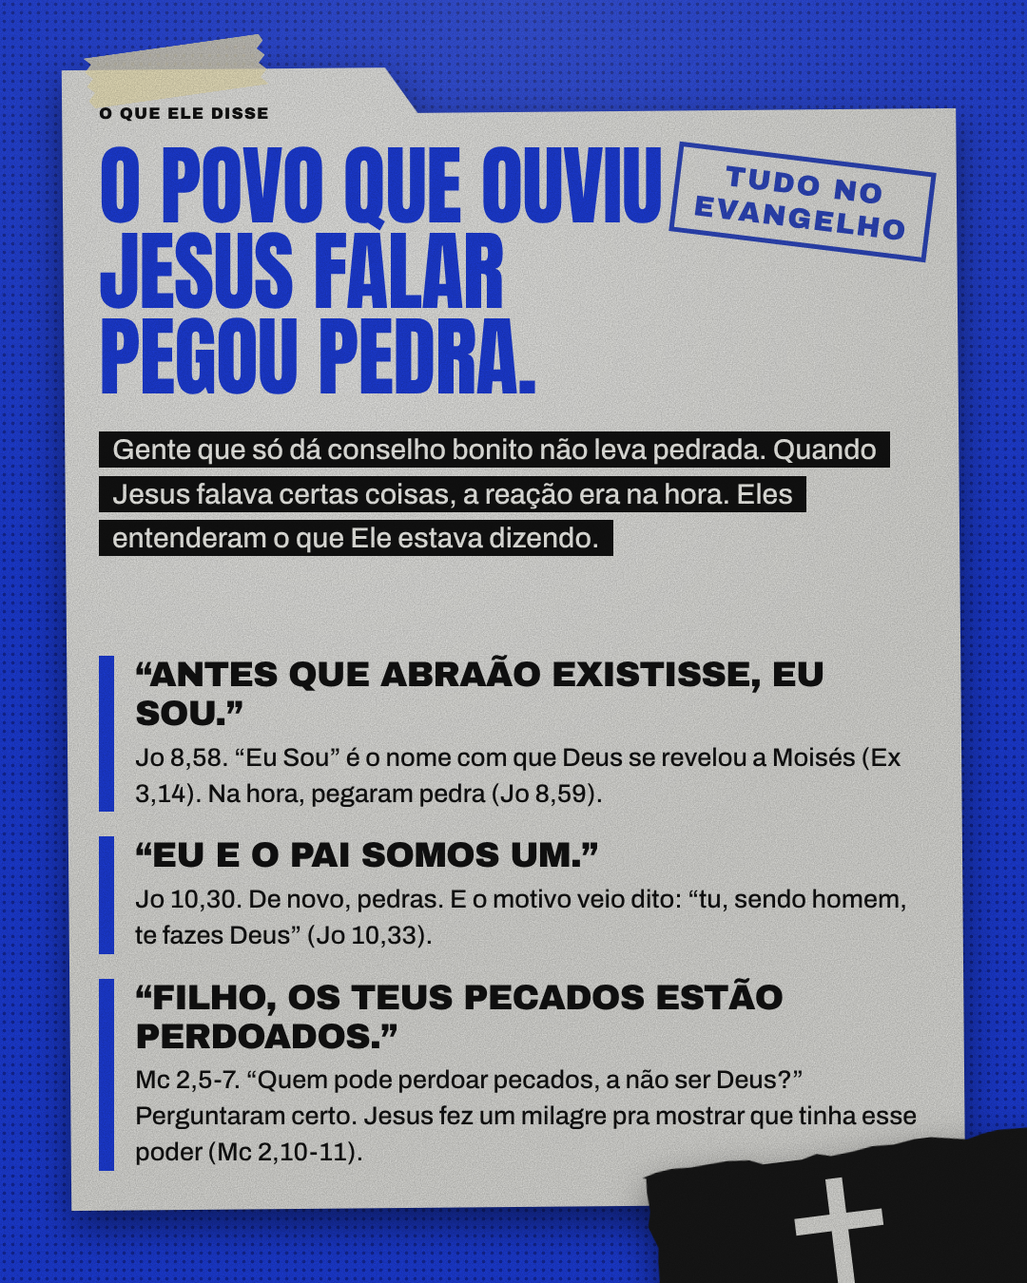
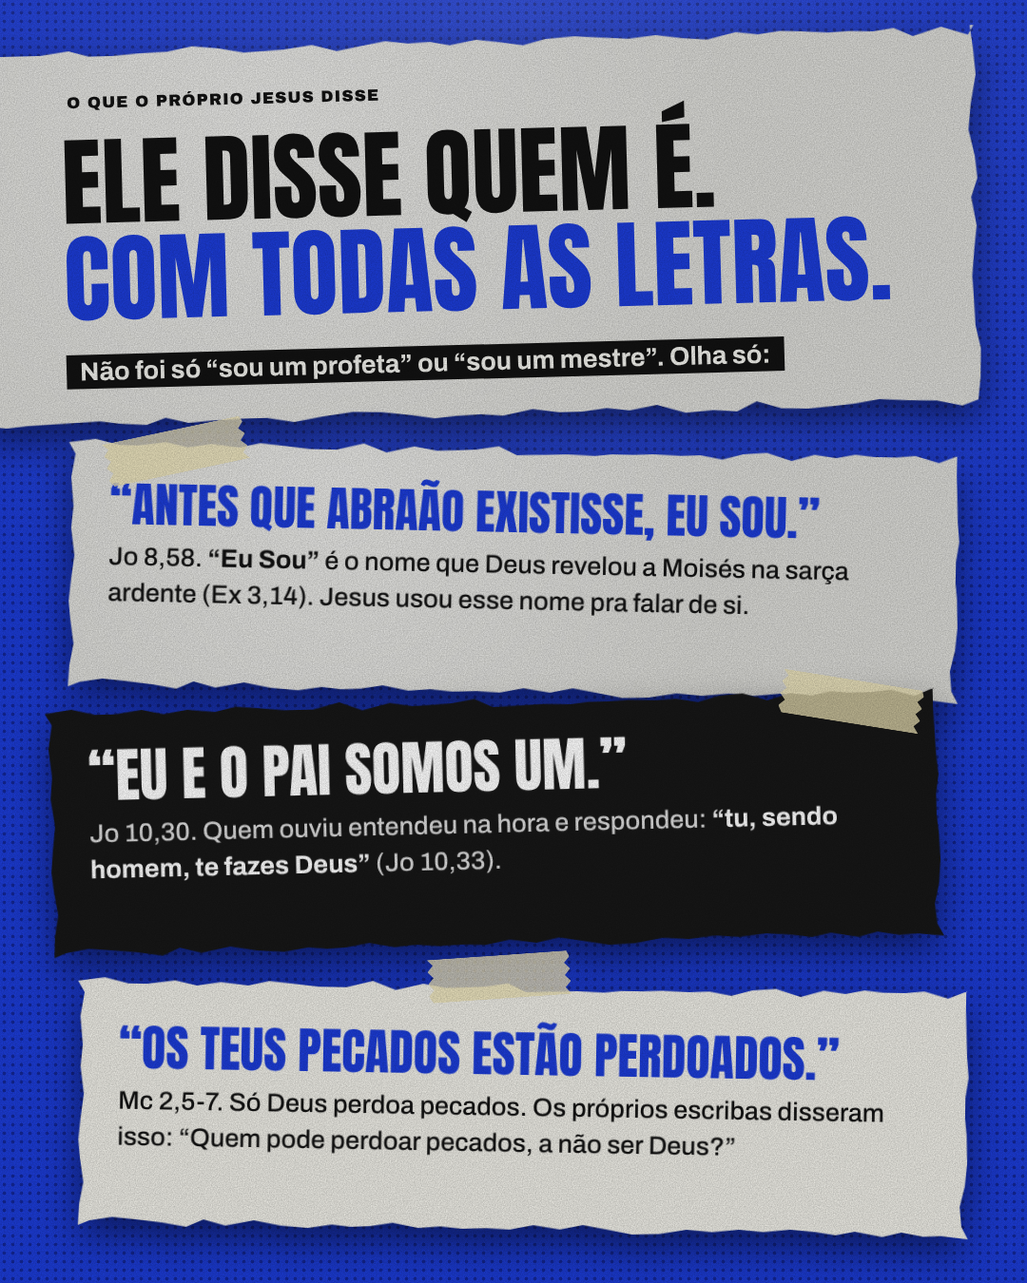
Rework post 02 slide 2 for clarity and simplify slides 3-4 copy
Claude-Session: https://claude.ai/code/session_01MihRDu9S7C7FuK2X9gVU2q

diff --git a/instagram-jesus/post-02/slides.html b/instagram-jesus/post-02/slides.html
@@ -42,26 +42,25 @@
 
 <!-- ============ SLIDE 2 ============ -->
 <div class="s" id="s2">
- <div class="wrap" style="left:70px;top:70px;width:940px;height:1200px;transform:rotate(-.5deg)"><div class="paper" style="clip-path:polygon(0 0,340px 0,374px 48px,940px 48px,940px 1200px,0 1200px)"></div></div>
- <div class="abs lab" style="left:104px;top:110px;font-size:17px">O QUE ELE DISSE</div>
- <div class="abs cond" style="left:104px;top:150px;width:640px;font-size:92px;color:var(--blue);line-height:.98;letter-spacing:-1px">O POVO QUE OUVIU JESUS FALAR PEGOU PEDRA.</div>
- <div class="abs" style="left:104px;right:150px;top:450px;font-size:30px;line-height:1.55;font-weight:500"><span class="hl">Gente que só dá conselho bonito não leva pedrada. Quando Jesus falava certas coisas, a reação era na hora. Eles entenderam o que Ele estava dizendo.</span></div>
+ <div class="wrap" style="left:-30px;top:40px;width:1060px;height:400px;transform:rotate(-1.5deg)"><div class="paper" style="clip-path:polygon(0px 2px,31px 7px,52px 7px,77px 7px,107px 3px,128px 9px,153px 9px,181px 7px,211px 6px,237px 1px,265px 4px,291px 9px,313px 8px,333px 7px,363px 3px,389px 10px,417px 5px,440px 1px,464px 4px,487px 3px,508px 7px,536px 2px,559px 5px,585px 9px,609px 3px,639px 1px,666px 3px,696px 5px,725px 2px,753px 6px,779px 8px,809px 1px,832px 4px,855px 1px,878px 2px,906px 4px,928px 3px,953px 4px,975px 1px,995px 10px,1025px 1px,1053px 10px,1059px 0px,1055px 0px,1058px 25px,1060px 52px,1054px 83px,1051px 110px,1057px 138px,1059px 161px,1052px 181px,1057px 211px,1054px 234px,1051px 264px,1052px 286px,1053px 316px,1058px 340px,1057px 370px,1054px 394px,1060px 392px,1037px 400px,1010px 394px,980px 393px,950px 391px,924px 395px,902px 397px,875px 399px,847px 398px,821px 390px,800px 400px,775px 398px,746px 400px,716px 391px,687px 396px,663px 393px,637px 396px,613px 396px,585px 392px,554px 398px,531px 396px,504px 397px,482px 399px,458px 395px,426px 391px,396px 390px,364px 394px,334px 399px,306px 394px,283px 394px,251px 395px,223px 397px,199px 391px,179px 398px,151px 396px,130px 393px,105px 394px,80px 395px,54px 396px,32px 398px,2px 395px,9px 400px,1px 377px,3px 351px,6px 325px,6px 302px,5px 281px,1px 254px,1px 229px,9px 203px,7px 177px,1px 148px,7px 116px,8px 95px,2px 70px,6px 38px,1px 9px)"></div></div>
+ <div class="abs lab" style="left:70px;top:95px;font-size:17px;transform:rotate(-1.5deg)">O QUE O PRÓPRIO JESUS DISSE</div>
+ <div class="abs cond" style="left:66px;top:130px;font-size:102px;line-height:1.0;white-space:nowrap;transform:rotate(-1.5deg)">ELE DISSE QUEM É.<br><span style="color:var(--blue)">COM TODAS AS LETRAS.</span></div>
+ <div class="abs" style="left:70px;top:362px;font-size:27px;font-weight:700;transform:rotate(-1.5deg)"><span class="hl">Não foi só “sou um profeta” ou “sou um mestre”. Olha só:</span></div>
 
- <div class="abs" style="left:104px;right:104px;top:690px">
-  <div style="display:flex;gap:22px;margin-bottom:26px"><div style="width:16px;background:var(--blue);flex:none"></div><div>
-   <div class="q" style="font-size:37px">“Antes que Abraão existisse, EU SOU.”</div>
-   <div style="font-size:27px;line-height:1.4;margin-top:6px;font-weight:500">Jo 8,58. “Eu Sou” é o nome com que Deus se revelou a Moisés (Ex 3,14). Na hora, pegaram pedra (Jo 8,59).</div></div></div>
-  <div style="display:flex;gap:22px;margin-bottom:26px"><div style="width:16px;background:var(--blue);flex:none"></div><div>
-   <div class="q" style="font-size:37px">“Eu e o Pai somos um.”</div>
-   <div style="font-size:27px;line-height:1.4;margin-top:6px;font-weight:500">Jo 10,30. De novo, pedras. E o motivo veio dito: “tu, sendo homem, te fazes Deus” (Jo 10,33).</div></div></div>
-  <div style="display:flex;gap:22px"><div style="width:16px;background:var(--blue);flex:none"></div><div>
-   <div class="q" style="font-size:37px">“Filho, os teus pecados estão perdoados.”</div>
-   <div style="font-size:27px;line-height:1.4;margin-top:6px;font-weight:500">Mc 2,5-7. “Quem pode perdoar pecados, a não ser Deus?” Perguntaram certo. Jesus fez um milagre pra mostrar que tinha esse poder (Mc 2,10-11).</div></div></div>
- </div>
- <div class="wrap" style="left:690px;top:1205px;width:440px;height:280px;transform:rotate(-7deg)"><div class="dark" style="width:100%;height:100%;clip-path:polygon(0px 7px,15px 3px,32px 1px,52px 2px,69px 1px,91px 0px,114px 2px,128px 8px,145px 8px,169px 8px,185px 4px,200px 8px,224px 6px,244px 3px,267px 4px,289px 1px,306px 1px,328px 5px,344px 8px,361px 4px,377px 2px,401px 3px,417px 4px,435px 8px,450px 9px,452px 0px,454px 0px,456px 17px,458px 34px,457px 50px,451px 76px,459px 101px,452px 119px,453px 134px,451px 151px,453px 165px,459px 183px,453px 197px,458px 218px,452px 237px,455px 254px,458px 269px,460px 274px,444px 279px,429px 275px,409px 278px,392px 274px,370px 273px,349px 278px,334px 273px,315px 274px,300px 273px,282px 272px,258px 276px,244px 272px,224px 272px,207px 278px,183px 277px,167px 277px,146px 280px,126px 276px,105px 279px,83px 273px,58px 277px,36px 277px,13px 279px,9px 280px,5px 260px,5px 240px,9px 225px,2px 209px,2px 194px,0px 170px,6px 155px,0px 138px,5px 117px,6px 97px,8px 82px,0px 59px,4px 43px,3px 23px,4px 8px)"></div></div>
- <div class="abs" style="left:830px;top:1235px;transform:rotate(-7deg)"><svg viewBox="0 0 100 130" width="110" height="143"><path d="M42 4h16v34h34v16H58v72H42V54H8V38h34z" fill="#d9d9d5"/></svg></div>
- <div class="tape" style="left:90px;top:48px;width:190px;height:54px;transform:rotate(-8deg)"></div>
- <div class="stamp" style="right:100px;top:165px;font-size:30px;line-height:1.15;text-align:center;transform:rotate(7deg)">Tudo no<br>Evangelho</div>
+ <div class="wrap" style="left:70px;top:470px;width:940px;height:262px;transform:rotate(1.2deg)"><div class="paper" style="clip-path:polygon(0px 5px,28px 1px,53px 7px,73px 7px,102px 3px,125px 8px,150px 4px,179px 7px,201px 2px,223px 4px,253px 7px,282px 7px,310px 0px,334px 9px,363px 2px,387px 6px,409px 5px,428px 4px,452px 0px,471px 9px,499px 8px,524px 7px,553px 8px,571px 6px,593px 6px,614px 5px,643px 6px,664px 5px,687px 9px,709px 3px,734px 1px,760px 9px,784px 2px,807px 5px,827px 1px,847px 3px,870px 3px,890px 1px,915px 8px,935px 0px,934px 0px,934px 20px,935px 44px,936px 69px,938px 91px,935px 112px,935px 134px,937px 152px,938px 181px,936px 205px,931px 227px,933px 248px,940px 261px,912px 258px,893px 259px,870px 255px,850px 260px,821px 255px,801px 259px,779px 256px,753px 254px,725px 257px,699px 255px,671px 258px,644px 256px,615px 261px,587px 262px,559px 257px,535px 253px,511px 258px,483px 254px,458px 259px,434px 258px,408px 259px,385px 257px,362px 259px,335px 254px,311px 258px,291px 259px,271px 257px,246px 261px,217px 259px,189px 254px,159px 260px,136px 254px,118px 262px,93px 258px,64px 255px,40px 253px,16px 257px,4px 262px,5px 240px,9px 217px,5px 191px,3px 172px,5px 149px,8px 124px,4px 95px,6px 72px,3px 42px,7px 17px);padding:44px 44px">
+   <div class="cond" style="font-size:50px;color:var(--blue);white-space:nowrap">“ANTES QUE ABRAÃO EXISTISSE, EU SOU.”</div>
+   <div style="font-size:27px;line-height:1.4;margin-top:12px;font-weight:500">Jo 8,58. <b>“Eu Sou”</b> é o nome que Deus revelou a Moisés na sarça ardente (Ex 3,14). Jesus usou esse nome pra falar de si.</div></div></div>
+ <div class="tape" style="left:110px;top:452px;width:150px;height:46px;transform:rotate(-12deg)"></div>
+
+ <div class="wrap" style="left:50px;top:735px;width:940px;height:262px;transform:rotate(-1.4deg)"><div class="dark" style="width:100%;height:100%;clip-path:polygon(0px 5px,28px 1px,53px 7px,73px 7px,102px 3px,125px 8px,150px 4px,179px 7px,201px 2px,223px 4px,253px 7px,282px 7px,310px 0px,334px 9px,363px 2px,387px 6px,409px 5px,428px 4px,452px 0px,471px 9px,499px 8px,524px 7px,553px 8px,571px 6px,593px 6px,614px 5px,643px 6px,664px 5px,687px 9px,709px 3px,734px 1px,760px 9px,784px 2px,807px 5px,827px 1px,847px 3px,870px 3px,890px 1px,915px 8px,935px 0px,934px 0px,934px 20px,935px 44px,936px 69px,938px 91px,935px 112px,935px 134px,937px 152px,938px 181px,936px 205px,931px 227px,933px 248px,940px 261px,912px 258px,893px 259px,870px 255px,850px 260px,821px 255px,801px 259px,779px 256px,753px 254px,725px 257px,699px 255px,671px 258px,644px 256px,615px 261px,587px 262px,559px 257px,535px 253px,511px 258px,483px 254px,458px 259px,434px 258px,408px 259px,385px 257px,362px 259px,335px 254px,311px 258px,291px 259px,271px 257px,246px 261px,217px 259px,189px 254px,159px 260px,136px 254px,118px 262px,93px 258px,64px 255px,40px 253px,16px 257px,4px 262px,5px 240px,9px 217px,5px 191px,3px 172px,5px 149px,8px 124px,4px 95px,6px 72px,3px 42px,7px 17px);padding:40px 44px">
+   <div class="cond" style="font-size:62px;color:#fff">“EU E O PAI SOMOS UM.”</div>
+   <div style="font-size:27px;line-height:1.4;margin-top:12px;font-weight:500;color:#ddd">Jo 10,30. Quem ouviu entendeu na hora e respondeu: <b style="color:#fff">“tu, sendo homem, te fazes Deus”</b> (Jo 10,33).</div></div></div>
+ <div class="tape" style="left:820px;top:715px;width:150px;height:46px;transform:rotate(9deg)"></div>
+
+ <div class="wrap" style="left:80px;top:1035px;width:940px;height:262px;transform:rotate(1deg)"><div style="width:100%;height:100%;background:var(--cream);clip-path:polygon(0px 5px,28px 1px,53px 7px,73px 7px,102px 3px,125px 8px,150px 4px,179px 7px,201px 2px,223px 4px,253px 7px,282px 7px,310px 0px,334px 9px,363px 2px,387px 6px,409px 5px,428px 4px,452px 0px,471px 9px,499px 8px,524px 7px,553px 8px,571px 6px,593px 6px,614px 5px,643px 6px,664px 5px,687px 9px,709px 3px,734px 1px,760px 9px,784px 2px,807px 5px,827px 1px,847px 3px,870px 3px,890px 1px,915px 8px,935px 0px,934px 0px,934px 20px,935px 44px,936px 69px,938px 91px,935px 112px,935px 134px,937px 152px,938px 181px,936px 205px,931px 227px,933px 248px,940px 261px,912px 258px,893px 259px,870px 255px,850px 260px,821px 255px,801px 259px,779px 256px,753px 254px,725px 257px,699px 255px,671px 258px,644px 256px,615px 261px,587px 262px,559px 257px,535px 253px,511px 258px,483px 254px,458px 259px,434px 258px,408px 259px,385px 257px,362px 259px,335px 254px,311px 258px,291px 259px,271px 257px,246px 261px,217px 259px,189px 254px,159px 260px,136px 254px,118px 262px,93px 258px,64px 255px,40px 253px,16px 257px,4px 262px,5px 240px,9px 217px,5px 191px,3px 172px,5px 149px,8px 124px,4px 95px,6px 72px,3px 42px,7px 17px);padding:48px 44px">
+   <div class="cond" style="font-size:52px;color:var(--blue);white-space:nowrap">“OS TEUS PECADOS ESTÃO PERDOADOS.”</div>
+   <div style="font-size:27px;line-height:1.4;margin-top:12px;font-weight:500">Mc 2,5-7. Só Deus perdoa pecados. Os próprios escribas disseram isso: “Quem pode perdoar pecados, a não ser Deus?”</div></div></div>
+ <div class="tape" style="left:450px;top:1005px;width:150px;height:46px;transform:rotate(-4deg)"></div>
 </div>
 
 <!-- ============ SLIDE 3 ============ -->
@@ -69,7 +68,7 @@
  <div class="wrap" style="left:70px;top:70px;width:940px;height:1190px;transform:rotate(.6deg)"><div class="paper" style="clip-path:polygon(0 48px,566px 48px,600px 0,940px 0,940px 1190px,0 1190px)"></div></div>
  <div class="abs lab" style="left:104px;top:125px;font-size:17px">E OS APÓSTOLOS?</div>
  <div class="abs big" style="left:100px;top:170px;font-size:112px;line-height:.95;letter-spacing:-2px;width:700px">TOMÉ ERA O CÉTICO DA TURMA.</div>
- <div class="abs" style="left:104px;right:150px;top:500px;font-size:30px;line-height:1.55;font-weight:500"><span class="hl">Ele falou que só acreditava se visse e tocasse as feridas. Oito dias depois, Jesus aparece e convida: “põe o dedo aqui”. E aí o cético responde (Jo 20,24-28):</span></div>
+ <div class="abs" style="left:104px;right:150px;top:500px;font-size:30px;line-height:1.55;font-weight:500"><span class="hl">Ele não estava lá quando Jesus ressuscitado apareceu, e disse que só acreditava se tocasse nas feridas. Oito dias depois, Jesus aparece e chama ele. Tomé responde (Jo 20,24-28):</span></div>
  <div class="wrap" style="left:60px;top:735px;width:960px;height:350px;transform:rotate(-2deg)"><div style="width:100%;height:100%;background:var(--blue);clip-path:polygon(0px 6px,22px 6px,46px 9px,72px 2px,101px 0px,126px 4px,146px 1px,174px 0px,198px 9px,218px 2px,243px 5px,269px 8px,289px 3px,311px 0px,339px 8px,366px 0px,394px 7px,418px 7px,441px 2px,460px 2px,479px 3px,506px 7px,534px 7px,555px 6px,578px 8px,603px 3px,628px 10px,649px 9px,667px 3px,688px 7px,717px 7px,739px 9px,761px 2px,790px 6px,816px 7px,846px 5px,874px 7px,903px 4px,929px 6px,951px 2px,959px 0px,951px 0px,960px 20px,951px 39px,959px 61px,960px 79px,954px 106px,953px 132px,954px 151px,952px 173px,951px 201px,951px 220px,951px 249px,958px 268px,960px 288px,952px 316px,952px 341px,960px 347px,941px 349px,914px 348px,892px 346px,874px 347px,852px 343px,830px 347px,800px 345px,772px 344px,754px 346px,730px 342px,708px 343px,684px 348px,655px 349px,628px 348px,610px 348px,582px 340px,564px 345px,541px 342px,520px 345px,498px 342px,477px 341px,456px 348px,429px 345px,410px 344px,391px 342px,365px 342px,339px 346px,316px 346px,288px 349px,259px 350px,238px 347px,210px 345px,187px 341px,166px 345px,142px 342px,115px 344px,93px 347px,73px 342px,47px 343px,27px 346px,6px 350px,5px 330px,2px 302px,3px 282px,8px 255px,2px 235px,3px 214px,2px 190px,2px 168px,7px 138px,10px 119px,4px 100px,8px 70px,4px 43px,6px 23px,2px 4px);display:flex;align-items:center;padding:0 54px"><div class="cond" style="font-size:112px;color:#f1f1ec;line-height:.98">“MEU SENHOR E MEU DEUS!”</div></div></div>
  <div class="abs" style="left:104px;right:130px;top:1120px;font-size:29px;line-height:1.5;font-weight:700">E Jesus não corrige nem diz “calma, exagerou”. Ele aceita, e ainda abençoa quem crê sem ter visto (Jo 20,29). Esse alguém é você.</div>
  <div class="stamp" style="left:760px;top:165px;font-size:16px;line-height:1.2;text-align:center;white-space:nowrap;transform:rotate(-6deg)">Jo 1,1<br>O Verbo era Deus</div>
@@ -81,7 +80,7 @@
  <div class="wrap" style="left:60px;top:80px;width:940px;height:1190px;transform:rotate(-.7deg)"><div class="paper" style="clip-path:polygon(0 0,340px 0,374px 48px,940px 48px,940px 1190px,0 1190px)"></div></div>
  <div class="abs lab" style="left:96px;top:140px;font-size:17px">A DÚVIDA MAIS COMUM</div>
  <div class="abs cond" style="left:96px;top:180px;font-size:104px;color:var(--blue);width:820px;line-height:.98">MAS COMO ASSIM, DEUS E HOMEM?</div>
- <div class="abs" style="left:96px;right:120px;top:500px;font-size:32px;line-height:1.55;font-weight:500"><span class="hl">Não é metade Deus, metade gente (CIC 464). É uma pessoa só, o Filho de Deus, que é totalmente Deus e totalmente homem, sem mistura e sem confusão. A Igreja definiu isso no Concílio de Calcedônia, em 451 (CIC 467).</span></div>
+ <div class="abs" style="left:96px;right:120px;top:500px;font-size:32px;line-height:1.55;font-weight:500"><span class="hl">Não é metade Deus e metade homem (CIC 464). É 100% Deus e 100% homem, numa pessoa só: o Filho de Deus. A Igreja deixou isso claro no Concílio de Calcedônia, no ano 451 (CIC 467).</span></div>
  <div class="abs" style="left:96px;right:120px;top:850px">
    <div class="lab" style="font-size:30px;margin-bottom:12px">Toda missa você reza isso:</div>
    <div class="q" style="font-size:46px;color:var(--blue)">“Deus verdadeiro de Deus verdadeiro”</div>

diff --git a/instagram-jesus/post-02/build.py b/instagram-jesus/post-02/build.py
@@ -30,7 +30,7 @@ T={ 'f1':folder(940,1170),'f1b':folder(940,1170,side='right'),
  'f2':folder(940,1200),'f3':folder(940,1190,side='right'),
  'f4':folder(940,1190),
  't1':torn(480,300,10,22),'t2':torn(420,120,8,18),'t3':torn(900,520,12,26),'t4':torn(980,260,10,24),
- 't5':torn(900,170,9,22),'t6':torn(560,560,12,26),'t7':torn(960,350,10,24),'t8':torn(940,640,10,26),'t9':torn(1160,250,10,26),'t10':torn(460,280,9,20)}
+ 't5':torn(900,170,9,22),'t6':torn(560,560,12,26),'t7':torn(960,350,10,24),'t8':torn(940,640,10,26),'t9':torn(1160,250,10,26),'t10':torn(460,280,9,20),'t11':torn(940,262,9,24),'t12':torn(1000,360,10,26),'t13':torn(1060,400,10,26)}
 
 CROSS='<svg viewBox="0 0 100 130" width="%d" height="%d"><path d="M42 4h16v34h34v16H58v72H42V54H8V38h34z" fill="%s"/></svg>'
 def cross(w,fill): return CROSS%(w,int(w*1.3),fill)
@@ -79,26 +79,25 @@ html='''<!doctype html><html><head><meta charset="utf-8">
 
 <!-- ============ SLIDE 2 ============ -->
 <div class="s" id="s2">
- <div class="wrap" style="left:70px;top:70px;width:940px;height:1200px;transform:rotate(-.5deg)"><div class="paper" style="clip-path:%%f2%%"></div></div>
- <div class="abs lab" style="left:104px;top:110px;font-size:17px">O QUE ELE DISSE</div>
- <div class="abs cond" style="left:104px;top:150px;width:640px;font-size:92px;color:var(--blue);line-height:.98;letter-spacing:-1px">O POVO QUE OUVIU JESUS FALAR PEGOU PEDRA.</div>
- <div class="abs" style="left:104px;right:150px;top:450px;font-size:30px;line-height:1.55;font-weight:500"><span class="hl">Gente que só dá conselho bonito não leva pedrada. Quando Jesus falava certas coisas, a reação era na hora. Eles entenderam o que Ele estava dizendo.</span></div>
+ <div class="wrap" style="left:-30px;top:40px;width:1060px;height:400px;transform:rotate(-1.5deg)"><div class="paper" style="clip-path:%%t13%%"></div></div>
+ <div class="abs lab" style="left:70px;top:95px;font-size:17px;transform:rotate(-1.5deg)">O QUE O PRÓPRIO JESUS DISSE</div>
+ <div class="abs cond" style="left:66px;top:130px;font-size:102px;line-height:1.0;white-space:nowrap;transform:rotate(-1.5deg)">ELE DISSE QUEM É.<br><span style="color:var(--blue)">COM TODAS AS LETRAS.</span></div>
+ <div class="abs" style="left:70px;top:362px;font-size:27px;font-weight:700;transform:rotate(-1.5deg)"><span class="hl">Não foi só “sou um profeta” ou “sou um mestre”. Olha só:</span></div>
 
- <div class="abs" style="left:104px;right:104px;top:690px">
-  <div style="display:flex;gap:22px;margin-bottom:26px"><div style="width:16px;background:var(--blue);flex:none"></div><div>
-   <div class="q" style="font-size:37px">“Antes que Abraão existisse, EU SOU.”</div>
-   <div style="font-size:27px;line-height:1.4;margin-top:6px;font-weight:500">Jo 8,58. “Eu Sou” é o nome com que Deus se revelou a Moisés (Ex 3,14). Na hora, pegaram pedra (Jo 8,59).</div></div></div>
-  <div style="display:flex;gap:22px;margin-bottom:26px"><div style="width:16px;background:var(--blue);flex:none"></div><div>
-   <div class="q" style="font-size:37px">“Eu e o Pai somos um.”</div>
-   <div style="font-size:27px;line-height:1.4;margin-top:6px;font-weight:500">Jo 10,30. De novo, pedras. E o motivo veio dito: “tu, sendo homem, te fazes Deus” (Jo 10,33).</div></div></div>
-  <div style="display:flex;gap:22px"><div style="width:16px;background:var(--blue);flex:none"></div><div>
-   <div class="q" style="font-size:37px">“Filho, os teus pecados estão perdoados.”</div>
-   <div style="font-size:27px;line-height:1.4;margin-top:6px;font-weight:500">Mc 2,5-7. “Quem pode perdoar pecados, a não ser Deus?” Perguntaram certo. Jesus fez um milagre pra mostrar que tinha esse poder (Mc 2,10-11).</div></div></div>
- </div>
- <div class="wrap" style="left:690px;top:1205px;width:440px;height:280px;transform:rotate(-7deg)"><div class="dark" style="width:100%;height:100%;clip-path:%%t10%%"></div></div>
- <div class="abs" style="left:830px;top:1235px;transform:rotate(-7deg)">%%cross_sm%%</div>
- <div class="tape" style="left:90px;top:48px;width:190px;height:54px;transform:rotate(-8deg)"></div>
- <div class="stamp" style="right:100px;top:165px;font-size:30px;line-height:1.15;text-align:center;transform:rotate(7deg)">Tudo no<br>Evangelho</div>
+ <div class="wrap" style="left:70px;top:470px;width:940px;height:262px;transform:rotate(1.2deg)"><div class="paper" style="clip-path:%%t11%%;padding:44px 44px">
+   <div class="cond" style="font-size:50px;color:var(--blue);white-space:nowrap">“ANTES QUE ABRAÃO EXISTISSE, EU SOU.”</div>
+   <div style="font-size:27px;line-height:1.4;margin-top:12px;font-weight:500">Jo 8,58. <b>“Eu Sou”</b> é o nome que Deus revelou a Moisés na sarça ardente (Ex 3,14). Jesus usou esse nome pra falar de si.</div></div></div>
+ <div class="tape" style="left:110px;top:452px;width:150px;height:46px;transform:rotate(-12deg)"></div>
+
+ <div class="wrap" style="left:50px;top:735px;width:940px;height:262px;transform:rotate(-1.4deg)"><div class="dark" style="width:100%;height:100%;clip-path:%%t11%%;padding:40px 44px">
+   <div class="cond" style="font-size:62px;color:#fff">“EU E O PAI SOMOS UM.”</div>
+   <div style="font-size:27px;line-height:1.4;margin-top:12px;font-weight:500;color:#ddd">Jo 10,30. Quem ouviu entendeu na hora e respondeu: <b style="color:#fff">“tu, sendo homem, te fazes Deus”</b> (Jo 10,33).</div></div></div>
+ <div class="tape" style="left:820px;top:715px;width:150px;height:46px;transform:rotate(9deg)"></div>
+
+ <div class="wrap" style="left:80px;top:1035px;width:940px;height:262px;transform:rotate(1deg)"><div style="width:100%;height:100%;background:var(--cream);clip-path:%%t11%%;padding:48px 44px">
+   <div class="cond" style="font-size:52px;color:var(--blue);white-space:nowrap">“OS TEUS PECADOS ESTÃO PERDOADOS.”</div>
+   <div style="font-size:27px;line-height:1.4;margin-top:12px;font-weight:500">Mc 2,5-7. Só Deus perdoa pecados. Os próprios escribas disseram isso: “Quem pode perdoar pecados, a não ser Deus?”</div></div></div>
+ <div class="tape" style="left:450px;top:1005px;width:150px;height:46px;transform:rotate(-4deg)"></div>
 </div>
 
 <!-- ============ SLIDE 3 ============ -->
@@ -106,7 +105,7 @@ html='''<!doctype html><html><head><meta charset="utf-8">
  <div class="wrap" style="left:70px;top:70px;width:940px;height:1190px;transform:rotate(.6deg)"><div class="paper" style="clip-path:%%f3%%"></div></div>
  <div class="abs lab" style="left:104px;top:125px;font-size:17px">E OS APÓSTOLOS?</div>
  <div class="abs big" style="left:100px;top:170px;font-size:112px;line-height:.95;letter-spacing:-2px;width:700px">TOMÉ ERA O CÉTICO DA TURMA.</div>
- <div class="abs" style="left:104px;right:150px;top:500px;font-size:30px;line-height:1.55;font-weight:500"><span class="hl">Ele falou que só acreditava se visse e tocasse as feridas. Oito dias depois, Jesus aparece e convida: “põe o dedo aqui”. E aí o cético responde (Jo 20,24-28):</span></div>
+ <div class="abs" style="left:104px;right:150px;top:500px;font-size:30px;line-height:1.55;font-weight:500"><span class="hl">Ele não estava lá quando Jesus ressuscitado apareceu, e disse que só acreditava se tocasse nas feridas. Oito dias depois, Jesus aparece e chama ele. Tomé responde (Jo 20,24-28):</span></div>
  <div class="wrap" style="left:60px;top:735px;width:960px;height:350px;transform:rotate(-2deg)"><div style="width:100%;height:100%;background:var(--blue);clip-path:%%t7%%;display:flex;align-items:center;padding:0 54px"><div class="cond" style="font-size:112px;color:#f1f1ec;line-height:.98">“MEU SENHOR E MEU DEUS!”</div></div></div>
  <div class="abs" style="left:104px;right:130px;top:1120px;font-size:29px;line-height:1.5;font-weight:700">E Jesus não corrige nem diz “calma, exagerou”. Ele aceita, e ainda abençoa quem crê sem ter visto (Jo 20,29). Esse alguém é você.</div>
  <div class="stamp" style="left:760px;top:165px;font-size:16px;line-height:1.2;text-align:center;white-space:nowrap;transform:rotate(-6deg)">Jo 1,1<br>O Verbo era Deus</div>
@@ -118,7 +117,7 @@ html='''<!doctype html><html><head><meta charset="utf-8">
  <div class="wrap" style="left:60px;top:80px;width:940px;height:1190px;transform:rotate(-.7deg)"><div class="paper" style="clip-path:%%f4%%"></div></div>
  <div class="abs lab" style="left:96px;top:140px;font-size:17px">A DÚVIDA MAIS COMUM</div>
  <div class="abs cond" style="left:96px;top:180px;font-size:104px;color:var(--blue);width:820px;line-height:.98">MAS COMO ASSIM, DEUS E HOMEM?</div>
- <div class="abs" style="left:96px;right:120px;top:500px;font-size:32px;line-height:1.55;font-weight:500"><span class="hl">Não é metade Deus, metade gente (CIC 464). É uma pessoa só, o Filho de Deus, que é totalmente Deus e totalmente homem, sem mistura e sem confusão. A Igreja definiu isso no Concílio de Calcedônia, em 451 (CIC 467).</span></div>
+ <div class="abs" style="left:96px;right:120px;top:500px;font-size:32px;line-height:1.55;font-weight:500"><span class="hl">Não é metade Deus e metade homem (CIC 464). É 100% Deus e 100% homem, numa pessoa só: o Filho de Deus. A Igreja deixou isso claro no Concílio de Calcedônia, no ano 451 (CIC 467).</span></div>
  <div class="abs" style="left:96px;right:120px;top:850px">
    <div class="lab" style="font-size:30px;margin-bottom:12px">Toda missa você reza isso:</div>
    <div class="q" style="font-size:46px;color:var(--blue)">“Deus verdadeiro de Deus verdadeiro”</div>

diff --git a/instagram-jesus/post-02/legenda.md b/instagram-jesus/post-02/legenda.md
@@ -1,6 +1,6 @@
 Jesus é Deus? Vamos conversar sobre isso sem enrolação. 👇
 
-Pensa comigo: ninguém pega pedra pra quem só dá conselho bonito. E foi exatamente isso que fizeram quando Jesus disse "Antes que Abraão existisse, EU SOU" (Jo 8,58) e "Eu e o Pai somos um" (Jo 10,30). Eles entenderam o que Ele estava dizendo.
+Jesus não se apresentou só como profeta ou mestre. Ele disse "Antes que Abraão existisse, Eu Sou" (Jo 8,58), usando o nome que Deus revelou a Moisés (Ex 3,14). Disse "Eu e o Pai somos um" (Jo 10,30). E perdoou pecados, coisa que só Deus faz (Mc 2,5-7).
 
 Tomé, o cético da turma, quando viu Jesus ressuscitado soltou: "Meu Senhor e meu Deus!" (Jo 20,28). E Jesus não corrigiu.
 
